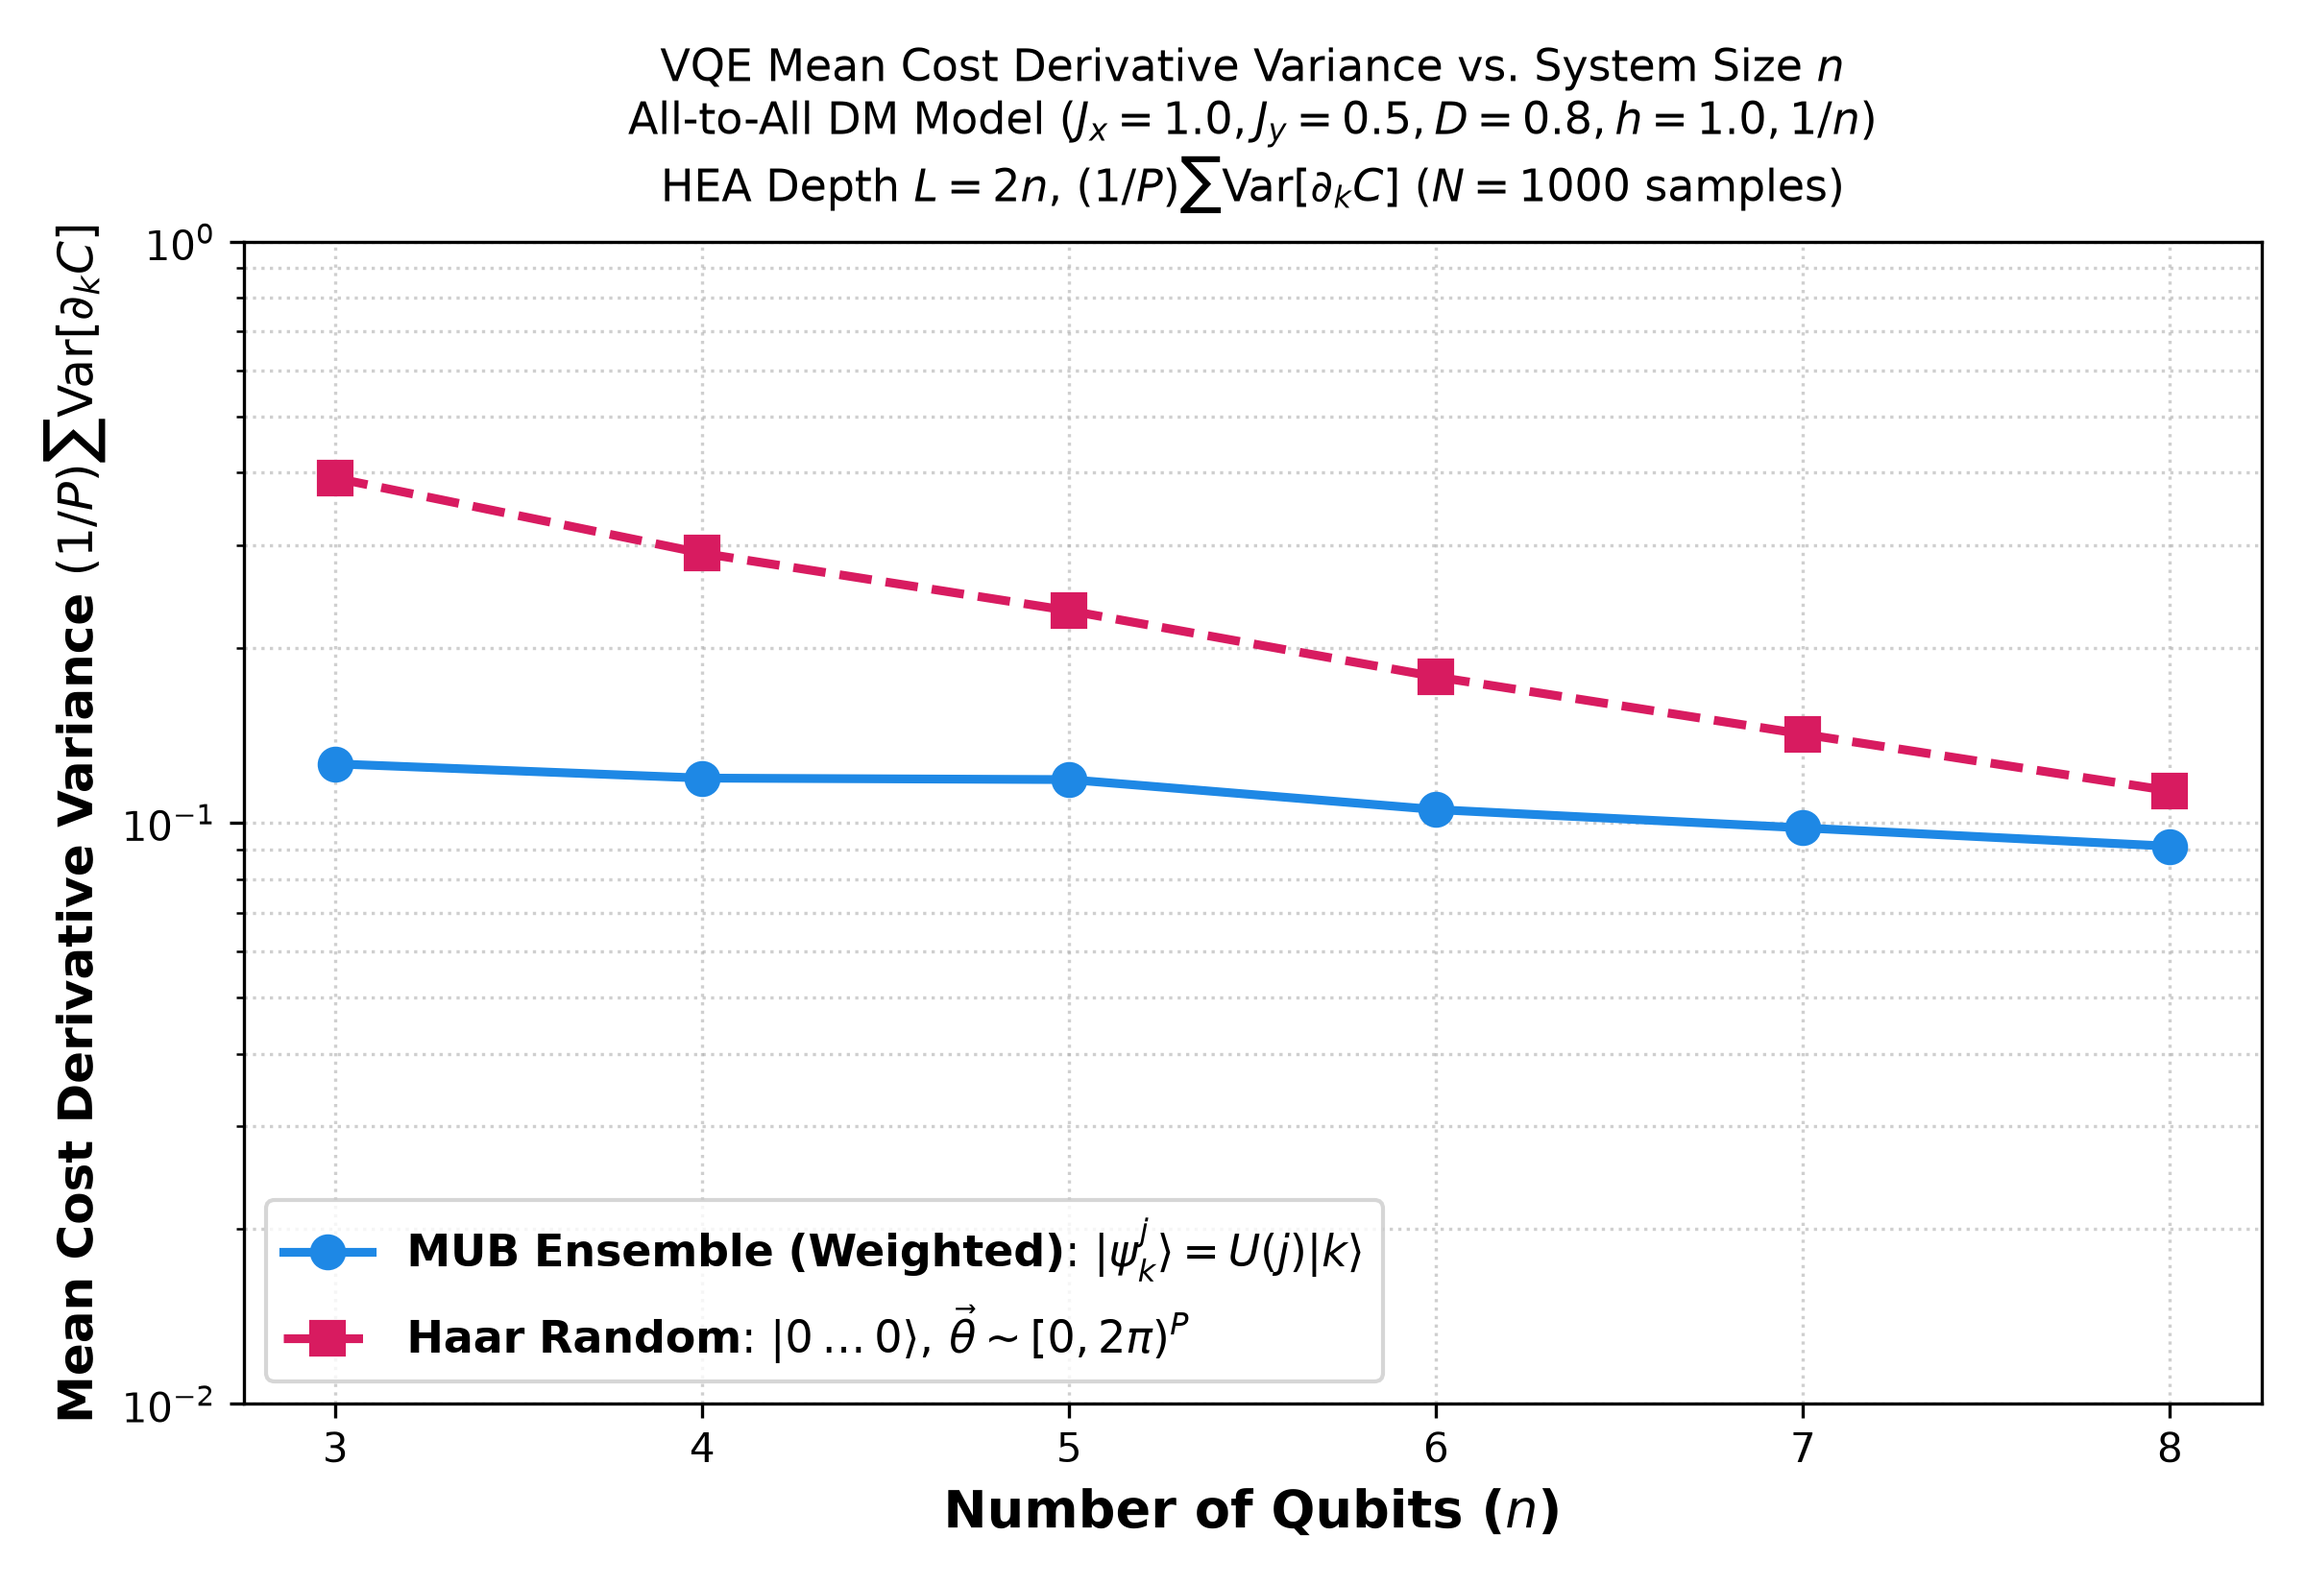
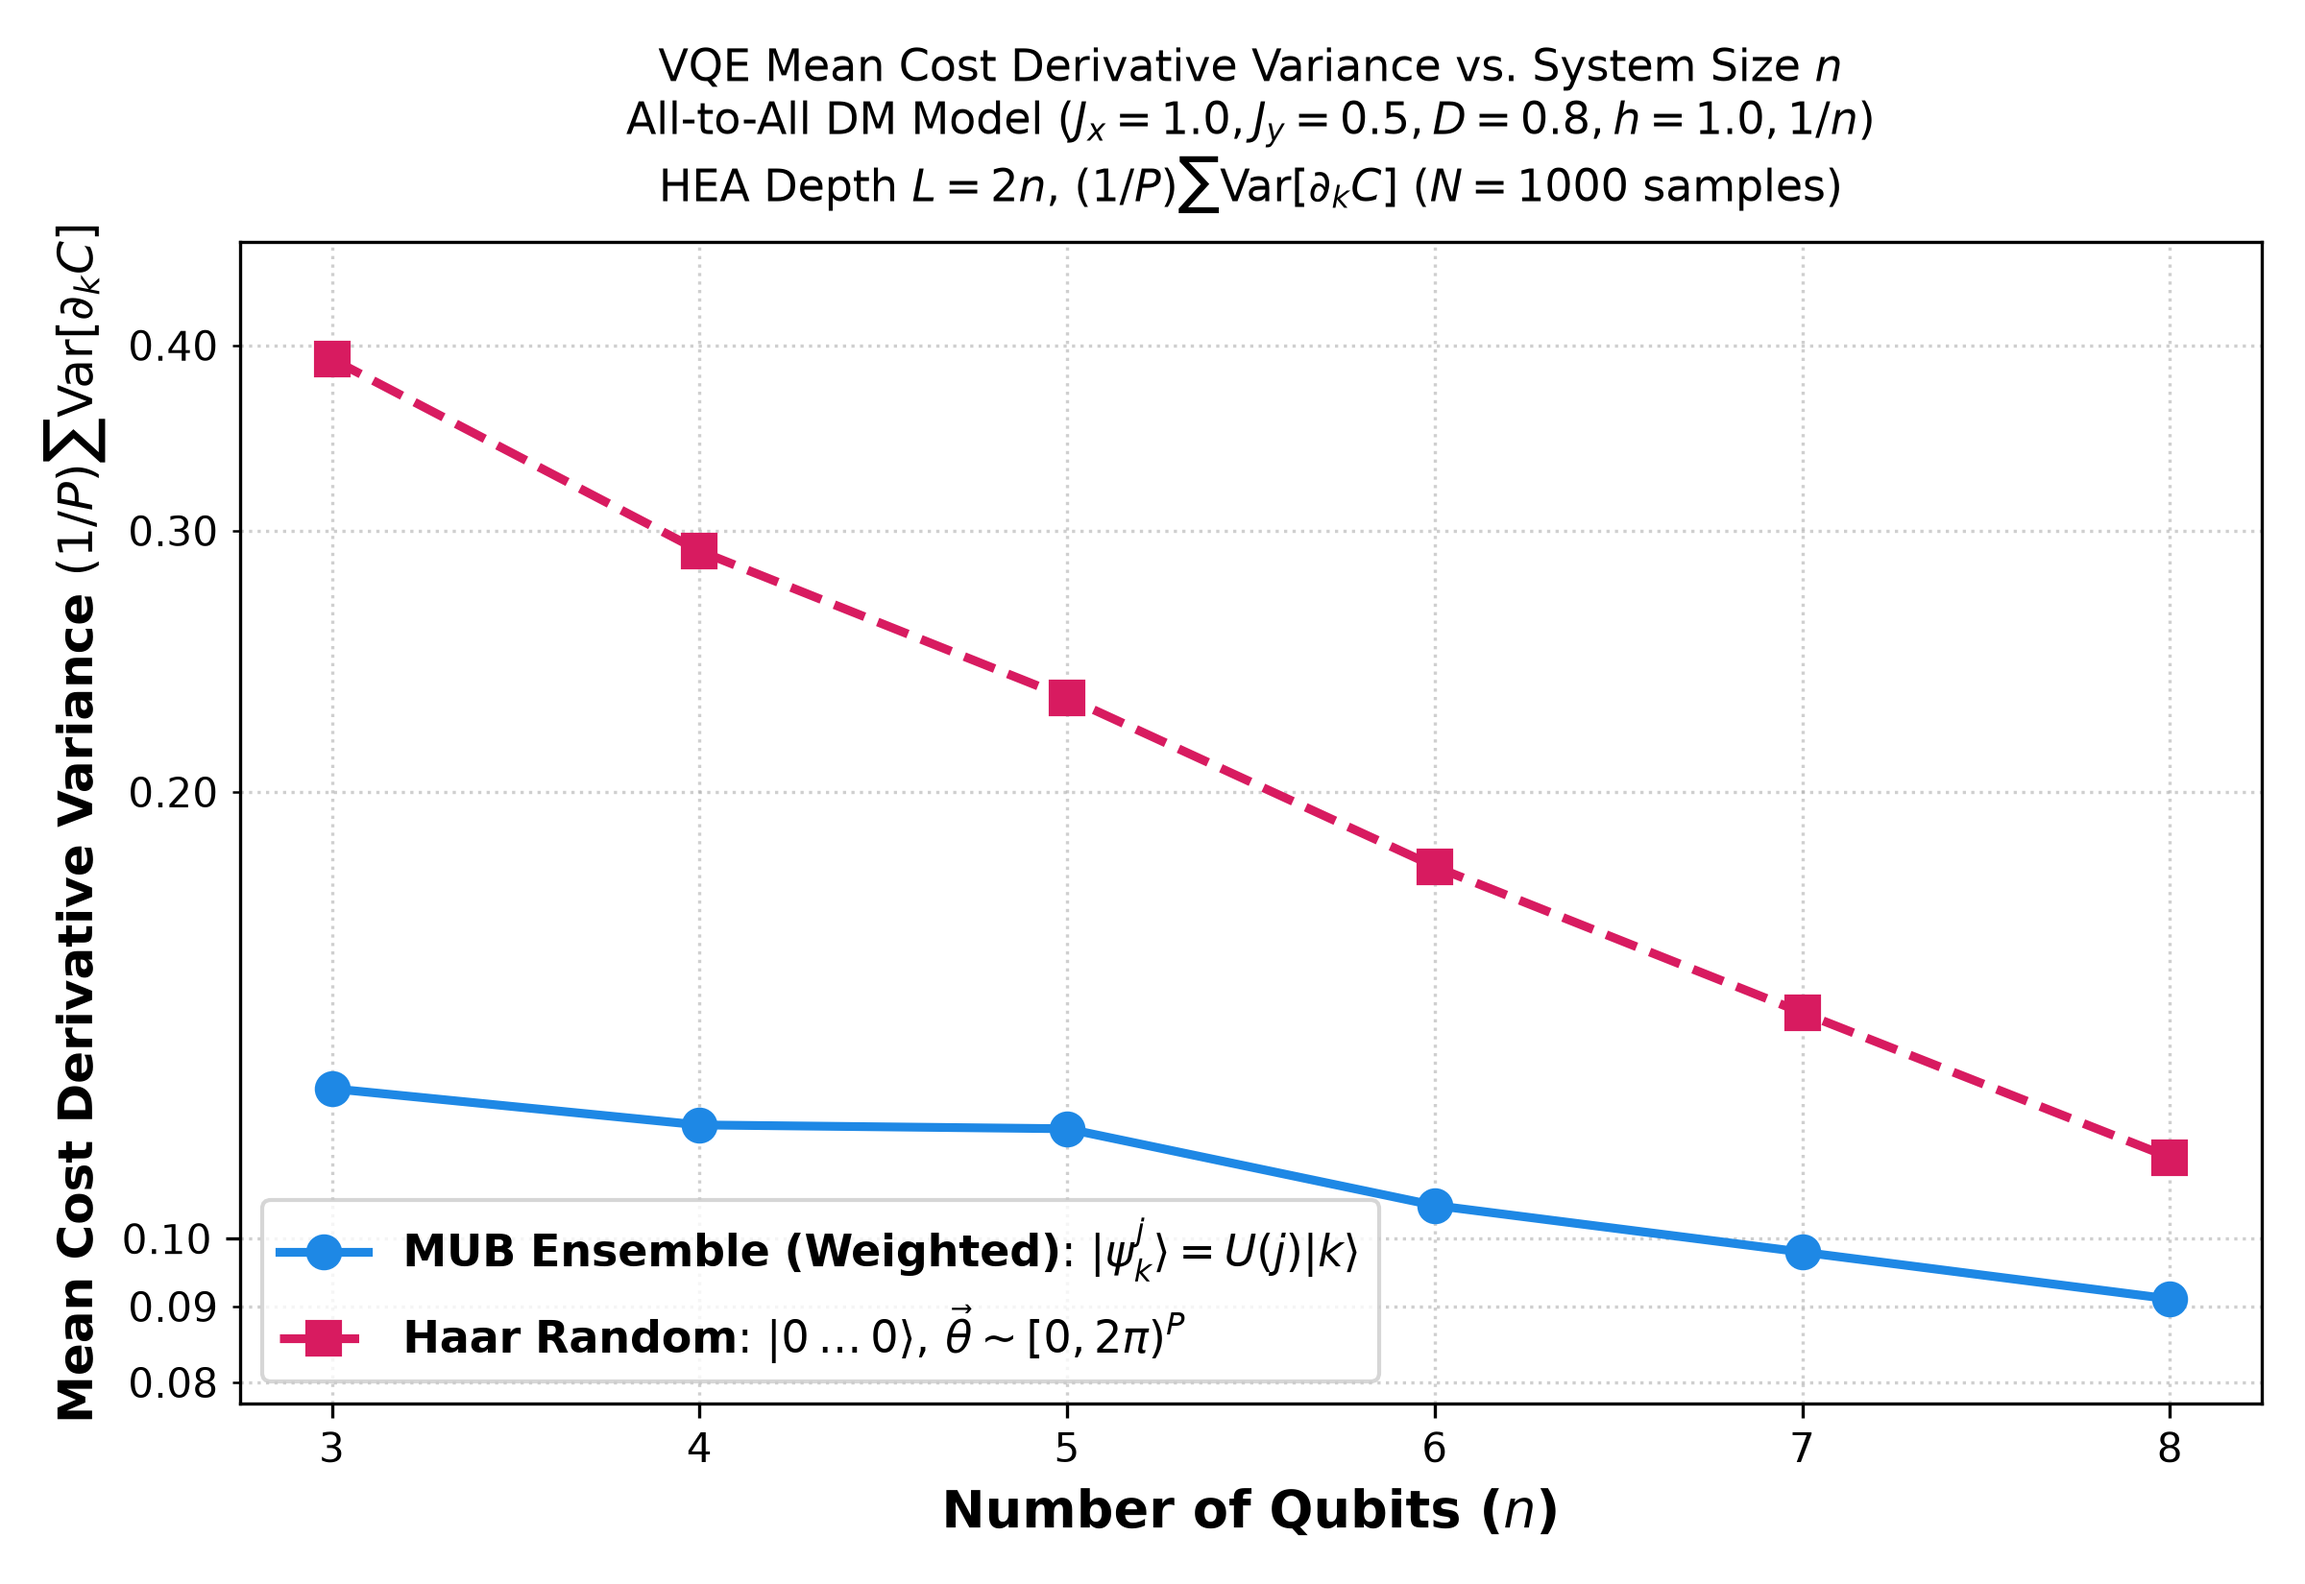
fix: tighten plot y-axis to eliminate empty space below curves

diff --git a/src/MUB_Circuits_generator/benchmark.py b/src/MUB_Circuits_generator/benchmark.py
@@ -448,9 +448,18 @@ def plot_variance_benchmark(
             pad=10
         )
 
-    # Ensure y-axis covers at least 10^-2 to 10^0
-    ymin, ymax = ax.get_ylim()
-    ax.set_ylim(bottom=min(1e-2, ymin), top=max(1.0, ymax))
+    # Cut empty parts of y-axis and focus tightly on the data range
+    all_vals = np.concatenate([haar_var, mub_var])
+    pos_vals = all_vals[all_vals > 0]
+    if len(pos_vals) > 0:
+        min_val = float(np.min(pos_vals))
+        max_val = float(np.max(pos_vals))
+        ax.set_ylim(bottom=min_val * 0.85, top=max_val * 1.20)
+
+    # Format y-axis ticks with legible scalar notation
+    from matplotlib.ticker import ScalarFormatter
+    ax.yaxis.set_major_formatter(ScalarFormatter())
+    ax.yaxis.set_minor_formatter(ScalarFormatter())
 
     ax.set_xticks(qubits)
     ax.grid(True, which="both", linestyle=":", alpha=0.6)
